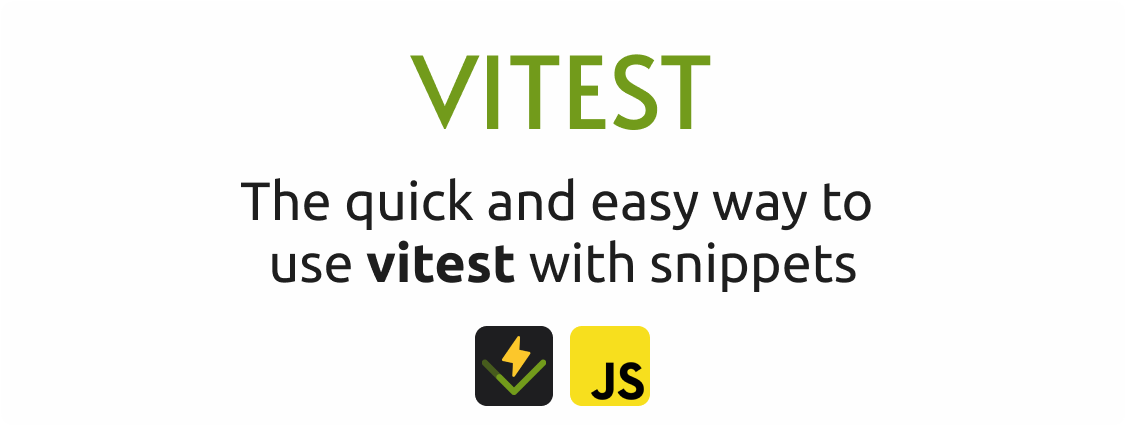
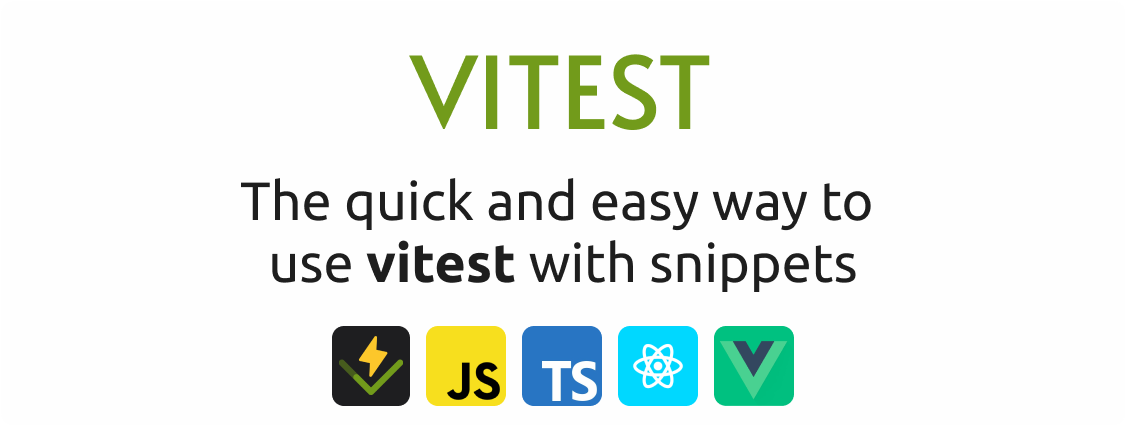
add files extension compatibility

diff --git a/README.md b/README.md
@@ -60,6 +60,10 @@ Open the extension manager with <kbd>ctrl</kbd>+<kbd>shift</kbd>+<kbd>X</kbd> (W
 | Language         | Extension |
 | ---------------- | --------- |
 | JavaScript       | `.js`     |
+| TypeScript       | `.ts`     |
+| JavaScript React | `.jsx`    |
+| TypeScript React | `.tsx`    |
+| Vue              | `.vue`    |
 
 ⇧ [Back to menu](#menu)
 

diff --git a/CHANGELOG.md b/CHANGELOG.md
@@ -9,6 +9,12 @@ Fixed       for any bug fixes.
 Security    to invite users to upgrade in case of vulnerabilities.
 -->
 
+## 1.2.0 - 2023/02/28
+
+### Added
+
+- TypeScript, React and Vue compatibility
+
 ## 1.1.1 - 2023/02/27
 
 ### Fixed
